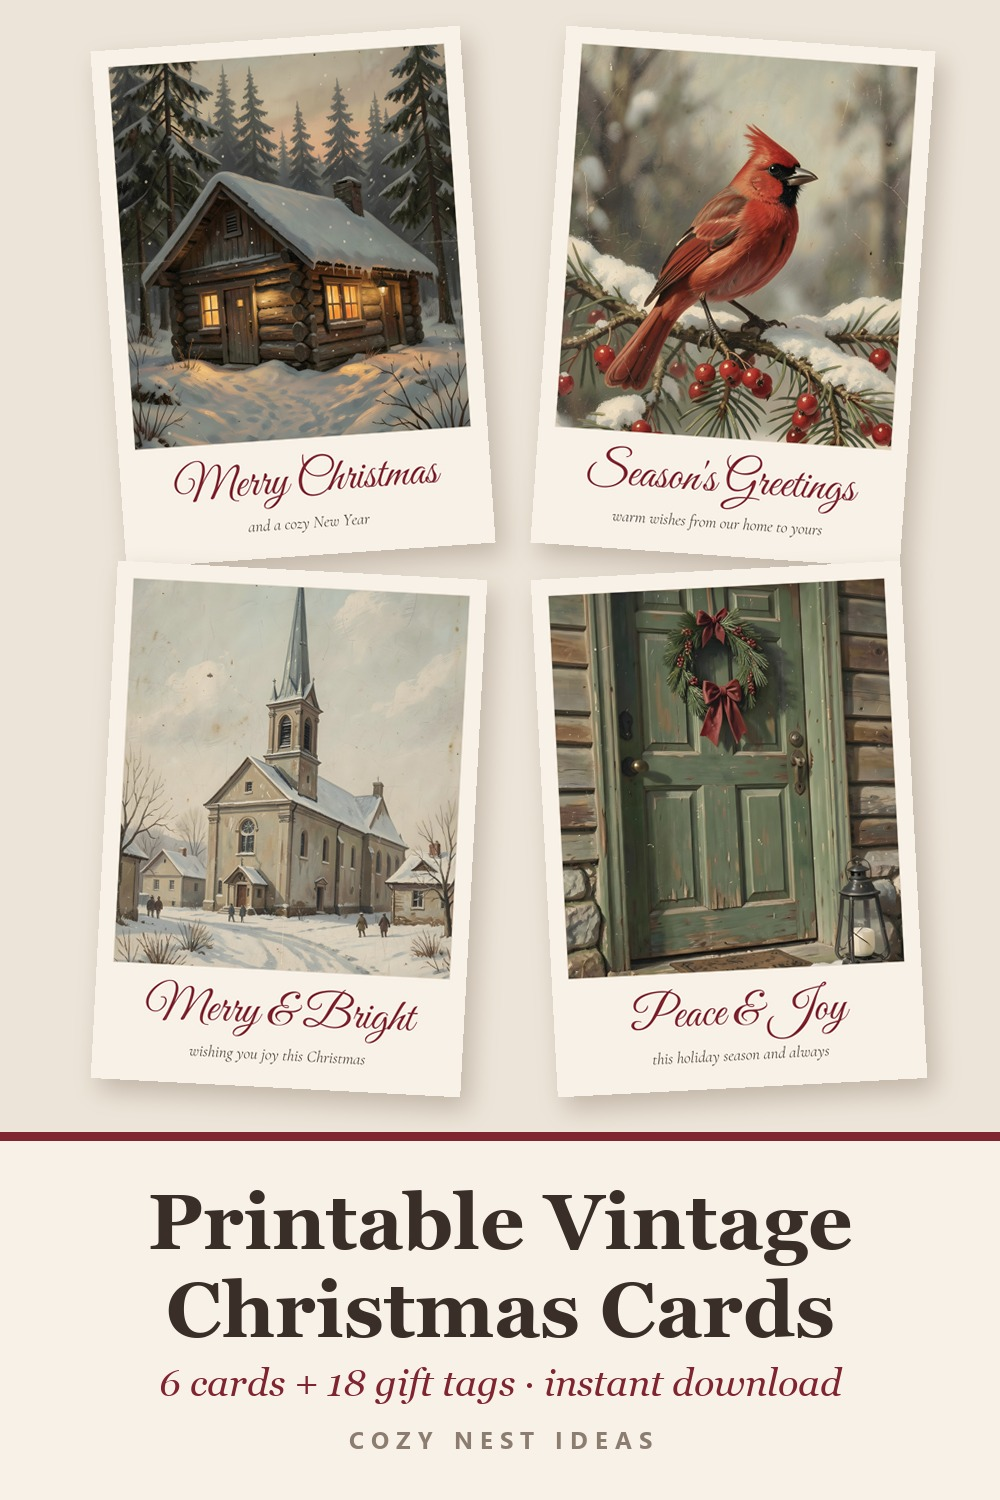
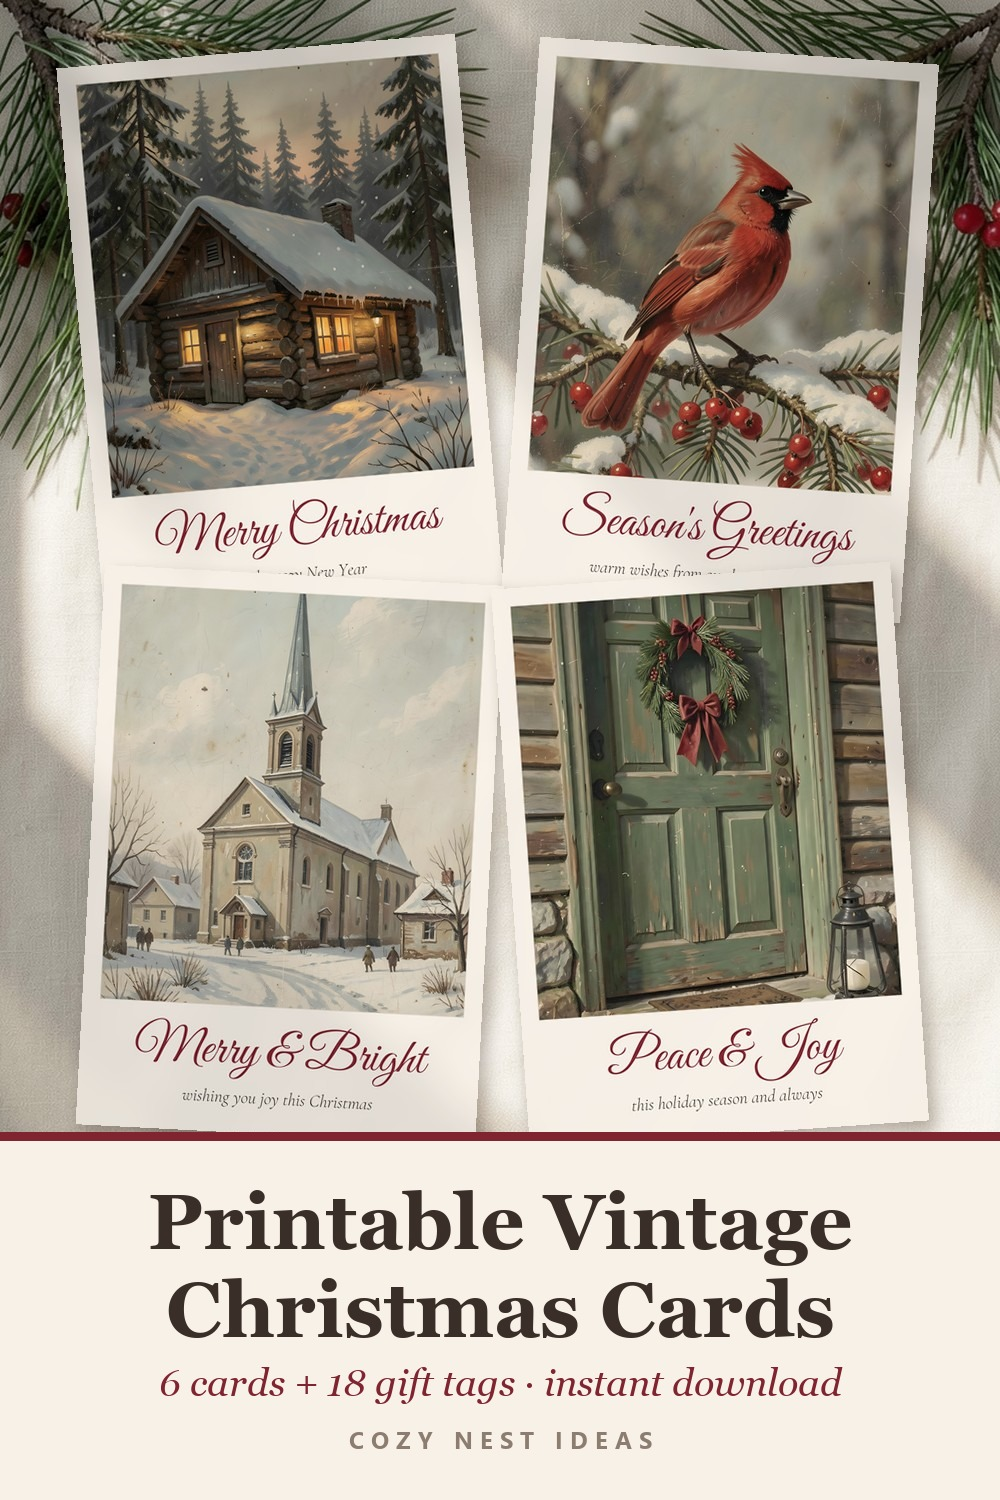
Christmas cards pin: styled tabletop mockup

diff --git a/index.html b/index.html
@@ -3,7 +3,7 @@
 <meta name="p:domain_verify" content="4409502b235040ad3e69c63925a18982"/>
 <title>Cozy Nest Ideas | Cozy Nest Ideas</title>
 <meta name="description" content="Cozy home and seasonal decor ideas with shop-the-look lists.">
-<link rel="stylesheet" href="style.css?v=1793361783"></head><body><div class="wrap">
+<link rel="stylesheet" href="style.css?v=1793362496"></head><body><div class="wrap">
 <header><a href="index.html">C O Z Y &nbsp; N E S T &nbsp; I D E A S</a></header>
 <h1>Cozy home ideas</h1><p class="intro">Cozy, seasonal room ideas, each with the pieces to shop the look.</p><div class="grid"><a class="card" href="cozy-winter-bedroom/index.html"><img src="cozy-winter-bedroom/room.jpg" alt="Cozy Winter Bedroom Ideas" loading="lazy"><span>Cozy Winter Bedroom Ideas</span></a><a class="card" href="christmas-living-room/index.html"><img src="christmas-living-room/room.jpg" alt="Cozy Christmas Living Room Ideas" loading="lazy"><span>Cozy Christmas Living Room Ideas</span></a><a class="card" href="safari-nursery/index.html"><img src="safari-nursery/room.jpg" alt="Neutral Safari Nursery Ideas" loading="lazy"><span>Neutral Safari Nursery Ideas</span></a><a class="card" href="christmas-mantel/index.html"><img src="christmas-mantel/room.jpg" alt="Cozy Christmas Mantel Ideas" loading="lazy"><span>Cozy Christmas Mantel Ideas</span></a><a class="card" href="thanksgiving-table/index.html"><img src="thanksgiving-table/room.jpg" alt="Cozy Thanksgiving Table Ideas" loading="lazy"><span>Cozy Thanksgiving Table Ideas</span></a><a class="card" href="boho-nursery/index.html"><img src="boho-nursery/room.jpg" alt="Boho Baby Girl Nursery Ideas" loading="lazy"><span>Boho Baby Girl Nursery Ideas</span></a><a class="card" href="fall-reading-nook/index.html"><img src="fall-reading-nook/room.jpg" alt="Cozy Fall Reading Nook Ideas" loading="lazy"><span>Cozy Fall Reading Nook Ideas</span></a></div>
 <footer>As an Amazon Associate I earn from qualifying purchases. Links on this page are affiliate links.<br>&copy; Cozy Nest Ideas. Room images are AI-generated inspiration; products are similar picks, not exact matches.</footer>

diff --git a/christmas-mantel/index.html b/christmas-mantel/index.html
@@ -3,7 +3,7 @@
 <meta name="p:domain_verify" content="4409502b235040ad3e69c63925a18982"/>
 <title>Cozy Christmas Mantel Ideas | Cozy Nest Ideas</title>
 <meta name="description" content="A classic, glowing Christmas mantel: a lush pine garland with pine cones, a lit berry wreath, brass candlesticks with fluted taper candles, sage pillar candles, a tiny lit wooden village and chunky knit stockings. Here are the pieces to recreate it.">
-<link rel="stylesheet" href="../style.css?v=1793361783"></head><body><div class="wrap">
+<link rel="stylesheet" href="../style.css?v=1793362496"></head><body><div class="wrap">
 <header><a href="../index.html">C O Z Y &nbsp; N E S T &nbsp; I D E A S</a></header>
 <div class="disc">As an Amazon Associate I earn from qualifying purchases. Links on this page are affiliate links.</div>
 <h1>Cozy Christmas Mantel Ideas</h1><p class="intro">A classic, glowing Christmas mantel: a lush pine garland with pine cones, a lit berry wreath, brass candlesticks with fluted taper candles, sage pillar candles, a tiny lit wooden village and chunky knit stockings. Here are the pieces to recreate it.</p>

diff --git a/thanksgiving-table/index.html b/thanksgiving-table/index.html
@@ -3,7 +3,7 @@
 <meta name="p:domain_verify" content="4409502b235040ad3e69c63925a18982"/>
 <title>Cozy Thanksgiving Table Ideas | Cozy Nest Ideas</title>
 <meta name="description" content="A warm, candlelit Thanksgiving table: a soft taupe linen tablecloth, a pine and eucalyptus runner dotted with cream and orange pumpkins, tall brown taper candles in brass and glowing amber votives. Here are the pieces to set it.">
-<link rel="stylesheet" href="../style.css?v=1793361783"></head><body><div class="wrap">
+<link rel="stylesheet" href="../style.css?v=1793362496"></head><body><div class="wrap">
 <header><a href="../index.html">C O Z Y &nbsp; N E S T &nbsp; I D E A S</a></header>
 <div class="disc">As an Amazon Associate I earn from qualifying purchases. Links on this page are affiliate links.</div>
 <h1>Cozy Thanksgiving Table Ideas</h1><p class="intro">A warm, candlelit Thanksgiving table: a soft taupe linen tablecloth, a pine and eucalyptus runner dotted with cream and orange pumpkins, tall brown taper candles in brass and glowing amber votives. Here are the pieces to set it.</p>

diff --git a/boho-nursery/index.html b/boho-nursery/index.html
@@ -3,7 +3,7 @@
 <meta name="p:domain_verify" content="4409502b235040ad3e69c63925a18982"/>
 <title>Boho Baby Girl Nursery Ideas | Cozy Nest Ideas</title>
 <meta name="description" content="A calm, airy boho nursery: a natural oak crib, soft floral sheets in pink and beige, a dusty rose macrame hanging, a wood bead garland, a faux olive tree and a fluffy tassel rug. Here are the pieces to recreate it.">
-<link rel="stylesheet" href="../style.css?v=1793361783"></head><body><div class="wrap">
+<link rel="stylesheet" href="../style.css?v=1793362496"></head><body><div class="wrap">
 <header><a href="../index.html">C O Z Y &nbsp; N E S T &nbsp; I D E A S</a></header>
 <div class="disc">As an Amazon Associate I earn from qualifying purchases. Links on this page are affiliate links.</div>
 <h1>Boho Baby Girl Nursery Ideas</h1><p class="intro">A calm, airy boho nursery: a natural oak crib, soft floral sheets in pink and beige, a dusty rose macrame hanging, a wood bead garland, a faux olive tree and a fluffy tassel rug. Here are the pieces to recreate it.</p>

diff --git a/cozy-winter-bedroom/index.html b/cozy-winter-bedroom/index.html
@@ -3,7 +3,7 @@
 <meta name="p:domain_verify" content="4409502b235040ad3e69c63925a18982"/>
 <title>Cozy Winter Bedroom Ideas | Cozy Nest Ideas</title>
 <meta name="description" content="A soft, warm bedroom for long winter nights: a cloud-like white comforter, deep burgundy velvet, a plush grey sherpa throw and the glow of fairy lights and flickering candles. Here are the pieces to recreate the look.">
-<link rel="stylesheet" href="../style.css?v=1793361783"></head><body><div class="wrap">
+<link rel="stylesheet" href="../style.css?v=1793362496"></head><body><div class="wrap">
 <header><a href="../index.html">C O Z Y &nbsp; N E S T &nbsp; I D E A S</a></header>
 <div class="disc">As an Amazon Associate I earn from qualifying purchases. Links on this page are affiliate links.</div>
 <h1>Cozy Winter Bedroom Ideas</h1><p class="intro">A soft, warm bedroom for long winter nights: a cloud-like white comforter, deep burgundy velvet, a plush grey sherpa throw and the glow of fairy lights and flickering candles. Here are the pieces to recreate the look.</p>

diff --git a/fall-reading-nook/index.html b/fall-reading-nook/index.html
@@ -3,7 +3,7 @@
 <meta name="p:domain_verify" content="4409502b235040ad3e69c63925a18982"/>
 <title>Cozy Fall Reading Nook Ideas | Cozy Nest Ideas</title>
 <meta name="description" content="A snug reading corner for autumn: a cloud-like sherpa barrel chair, a chunky knit throw, a chocolate corduroy pillow, a warm arc lamp, rustic floating shelves and a pumpkin candle burning on the side table.">
-<link rel="stylesheet" href="../style.css?v=1793361783"></head><body><div class="wrap">
+<link rel="stylesheet" href="../style.css?v=1793362496"></head><body><div class="wrap">
 <header><a href="../index.html">C O Z Y &nbsp; N E S T &nbsp; I D E A S</a></header>
 <div class="disc">As an Amazon Associate I earn from qualifying purchases. Links on this page are affiliate links.</div>
 <h1>Cozy Fall Reading Nook Ideas</h1><p class="intro">A snug reading corner for autumn: a cloud-like sherpa barrel chair, a chunky knit throw, a chocolate corduroy pillow, a warm arc lamp, rustic floating shelves and a pumpkin candle burning on the side table.</p>

diff --git a/christmas-living-room/index.html b/christmas-living-room/index.html
@@ -3,7 +3,7 @@
 <meta name="p:domain_verify" content="4409502b235040ad3e69c63925a18982"/>
 <title>Cozy Christmas Living Room Ideas | Cozy Nest Ideas</title>
 <meta name="description" content="A warm, classic Christmas corner: a glowing pre-lit tree in champagne ornaments, cable-knit stockings on a garland-draped mantel, flickering candles and soft velvet and sherpa layers on the sofa.">
-<link rel="stylesheet" href="../style.css?v=1793361783"></head><body><div class="wrap">
+<link rel="stylesheet" href="../style.css?v=1793362496"></head><body><div class="wrap">
 <header><a href="../index.html">C O Z Y &nbsp; N E S T &nbsp; I D E A S</a></header>
 <div class="disc">As an Amazon Associate I earn from qualifying purchases. Links on this page are affiliate links.</div>
 <h1>Cozy Christmas Living Room Ideas</h1><p class="intro">A warm, classic Christmas corner: a glowing pre-lit tree in champagne ornaments, cable-knit stockings on a garland-draped mantel, flickering candles and soft velvet and sherpa layers on the sofa.</p>

diff --git a/safari-nursery/index.html b/safari-nursery/index.html
@@ -3,7 +3,7 @@
 <meta name="p:domain_verify" content="4409502b235040ad3e69c63925a18982"/>
 <title>Neutral Safari Nursery Ideas | Cozy Nest Ideas</title>
 <meta name="description" content="A calm, gender-neutral safari nursery: a crisp white crib under a playful jungle mobile, a cozy grey glider for night feeds, book ledges at the ready and woven baskets that keep everything tidy.">
-<link rel="stylesheet" href="../style.css?v=1793361783"></head><body><div class="wrap">
+<link rel="stylesheet" href="../style.css?v=1793362496"></head><body><div class="wrap">
 <header><a href="../index.html">C O Z Y &nbsp; N E S T &nbsp; I D E A S</a></header>
 <div class="disc">As an Amazon Associate I earn from qualifying purchases. Links on this page are affiliate links.</div>
 <h1>Neutral Safari Nursery Ideas</h1><p class="intro">A calm, gender-neutral safari nursery: a crisp white crib under a playful jungle mobile, a cozy grey glider for night feeds, book ledges at the ready and woven baskets that keep everything tidy.</p>
